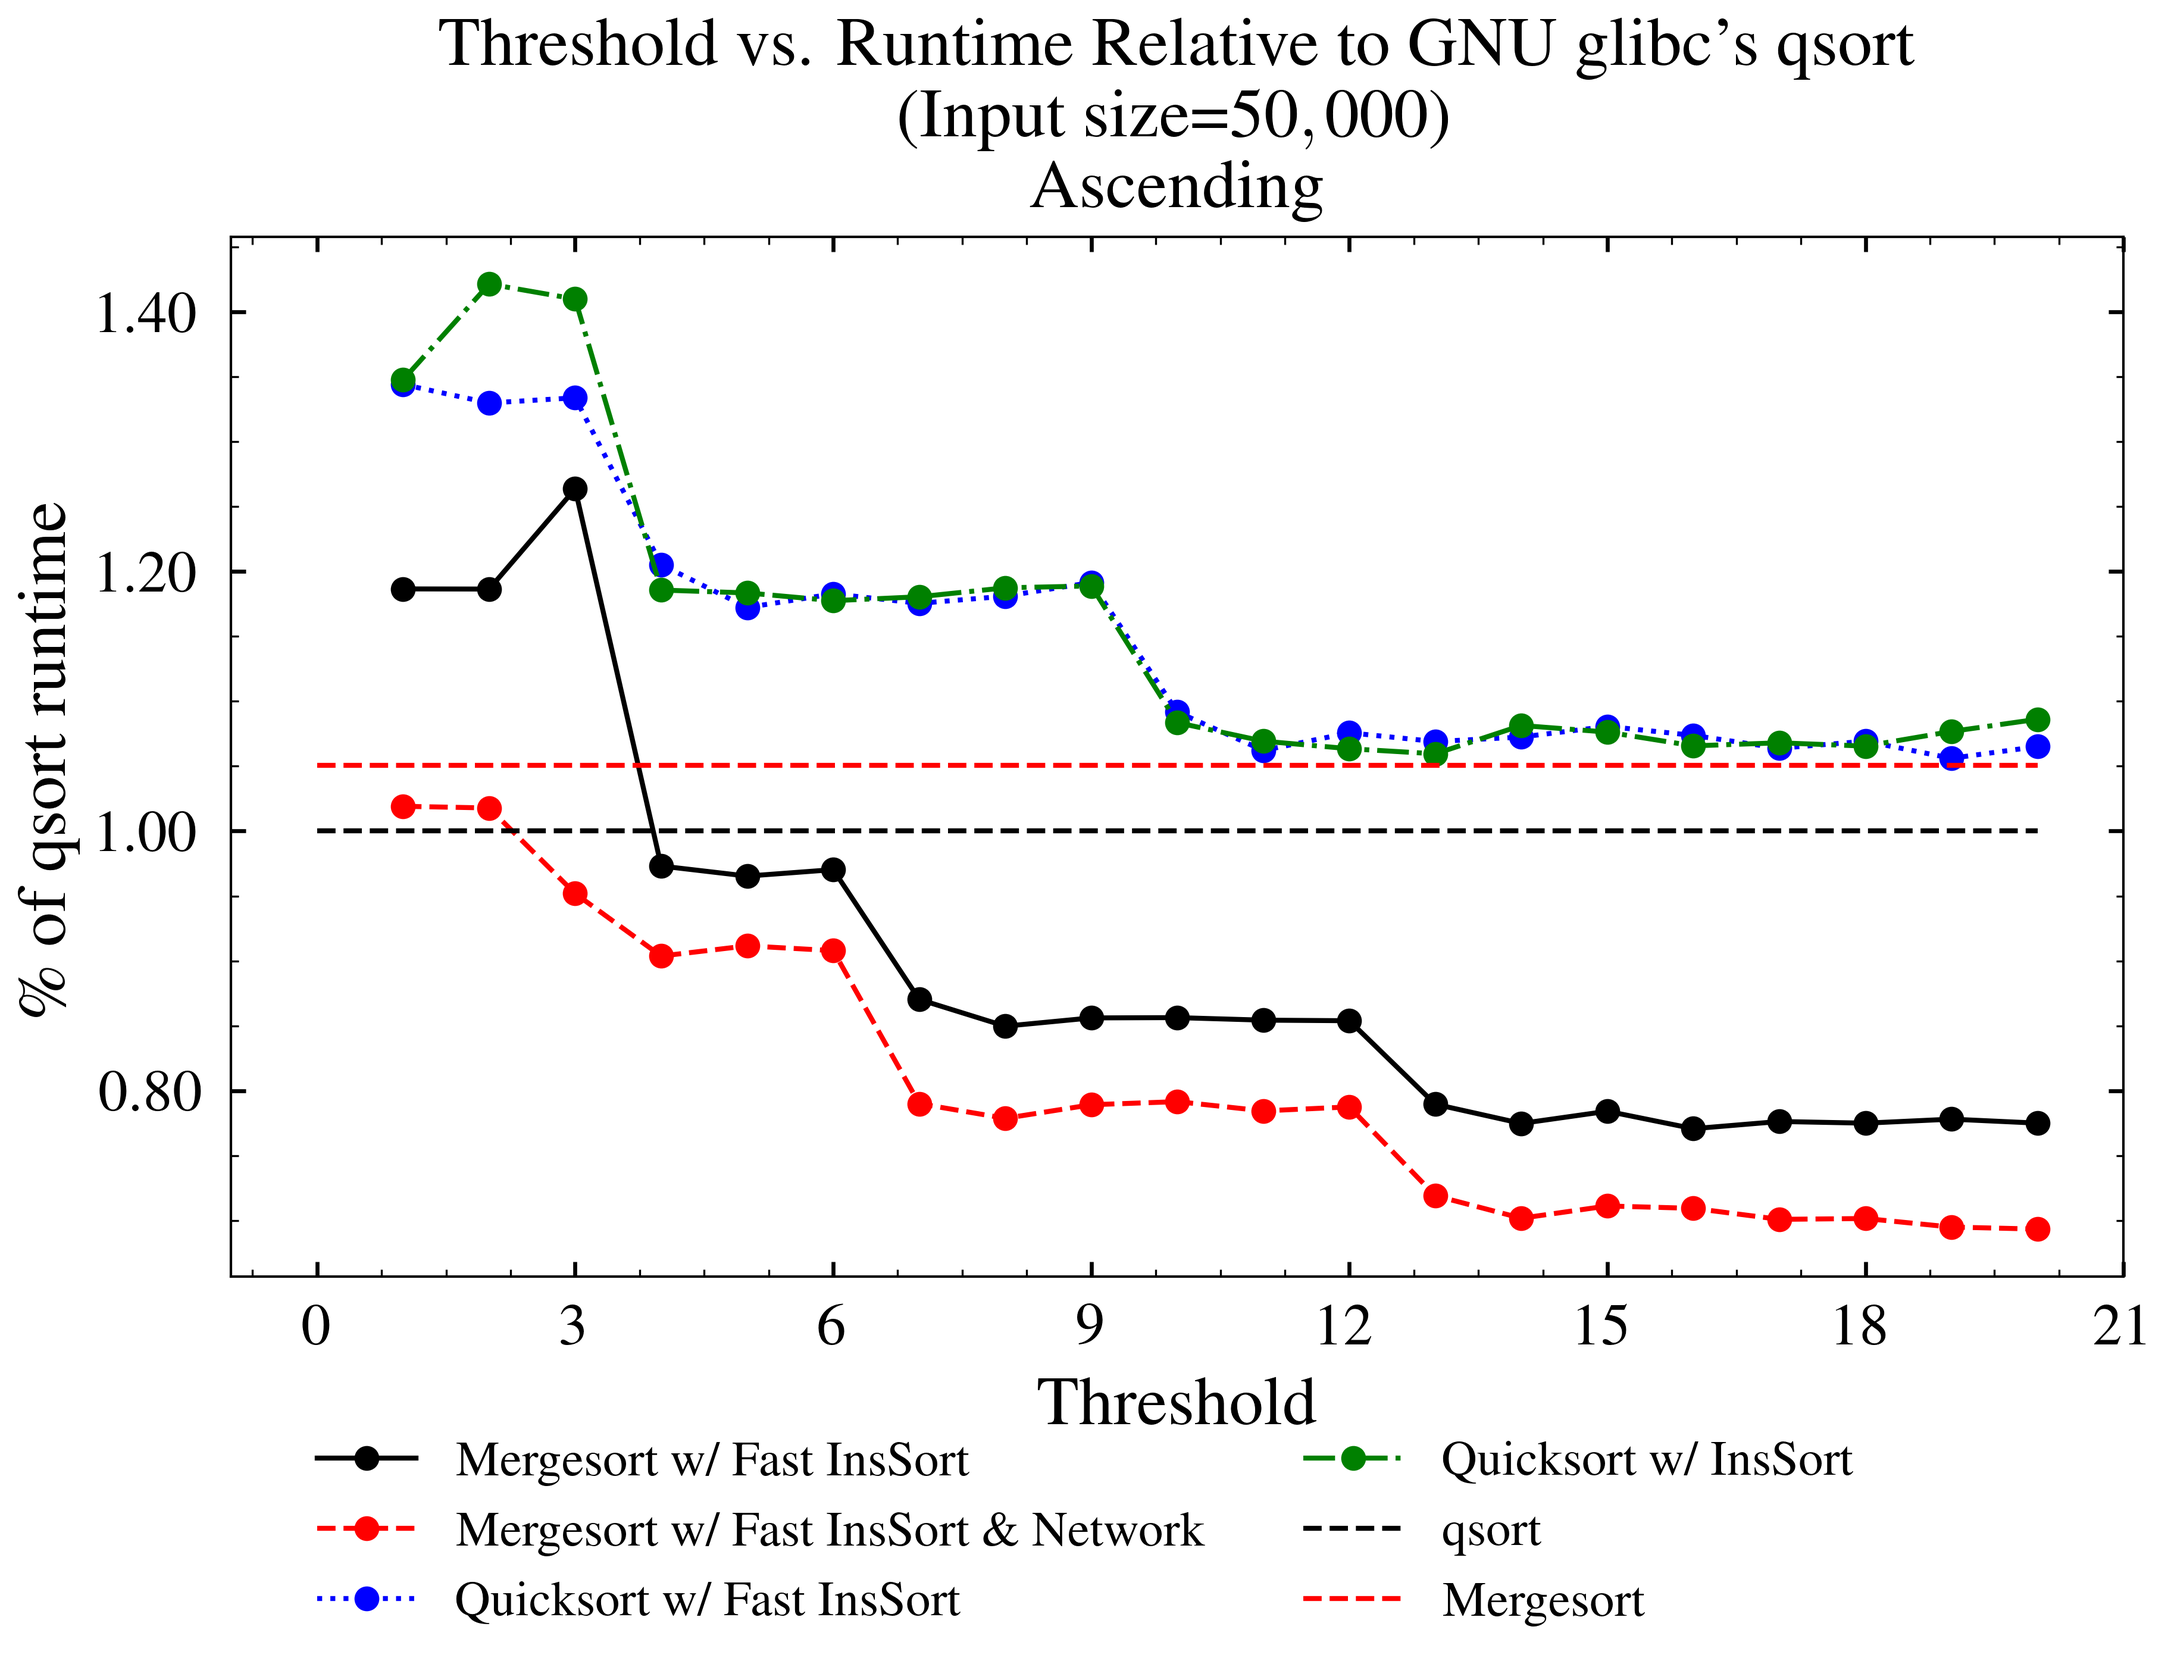
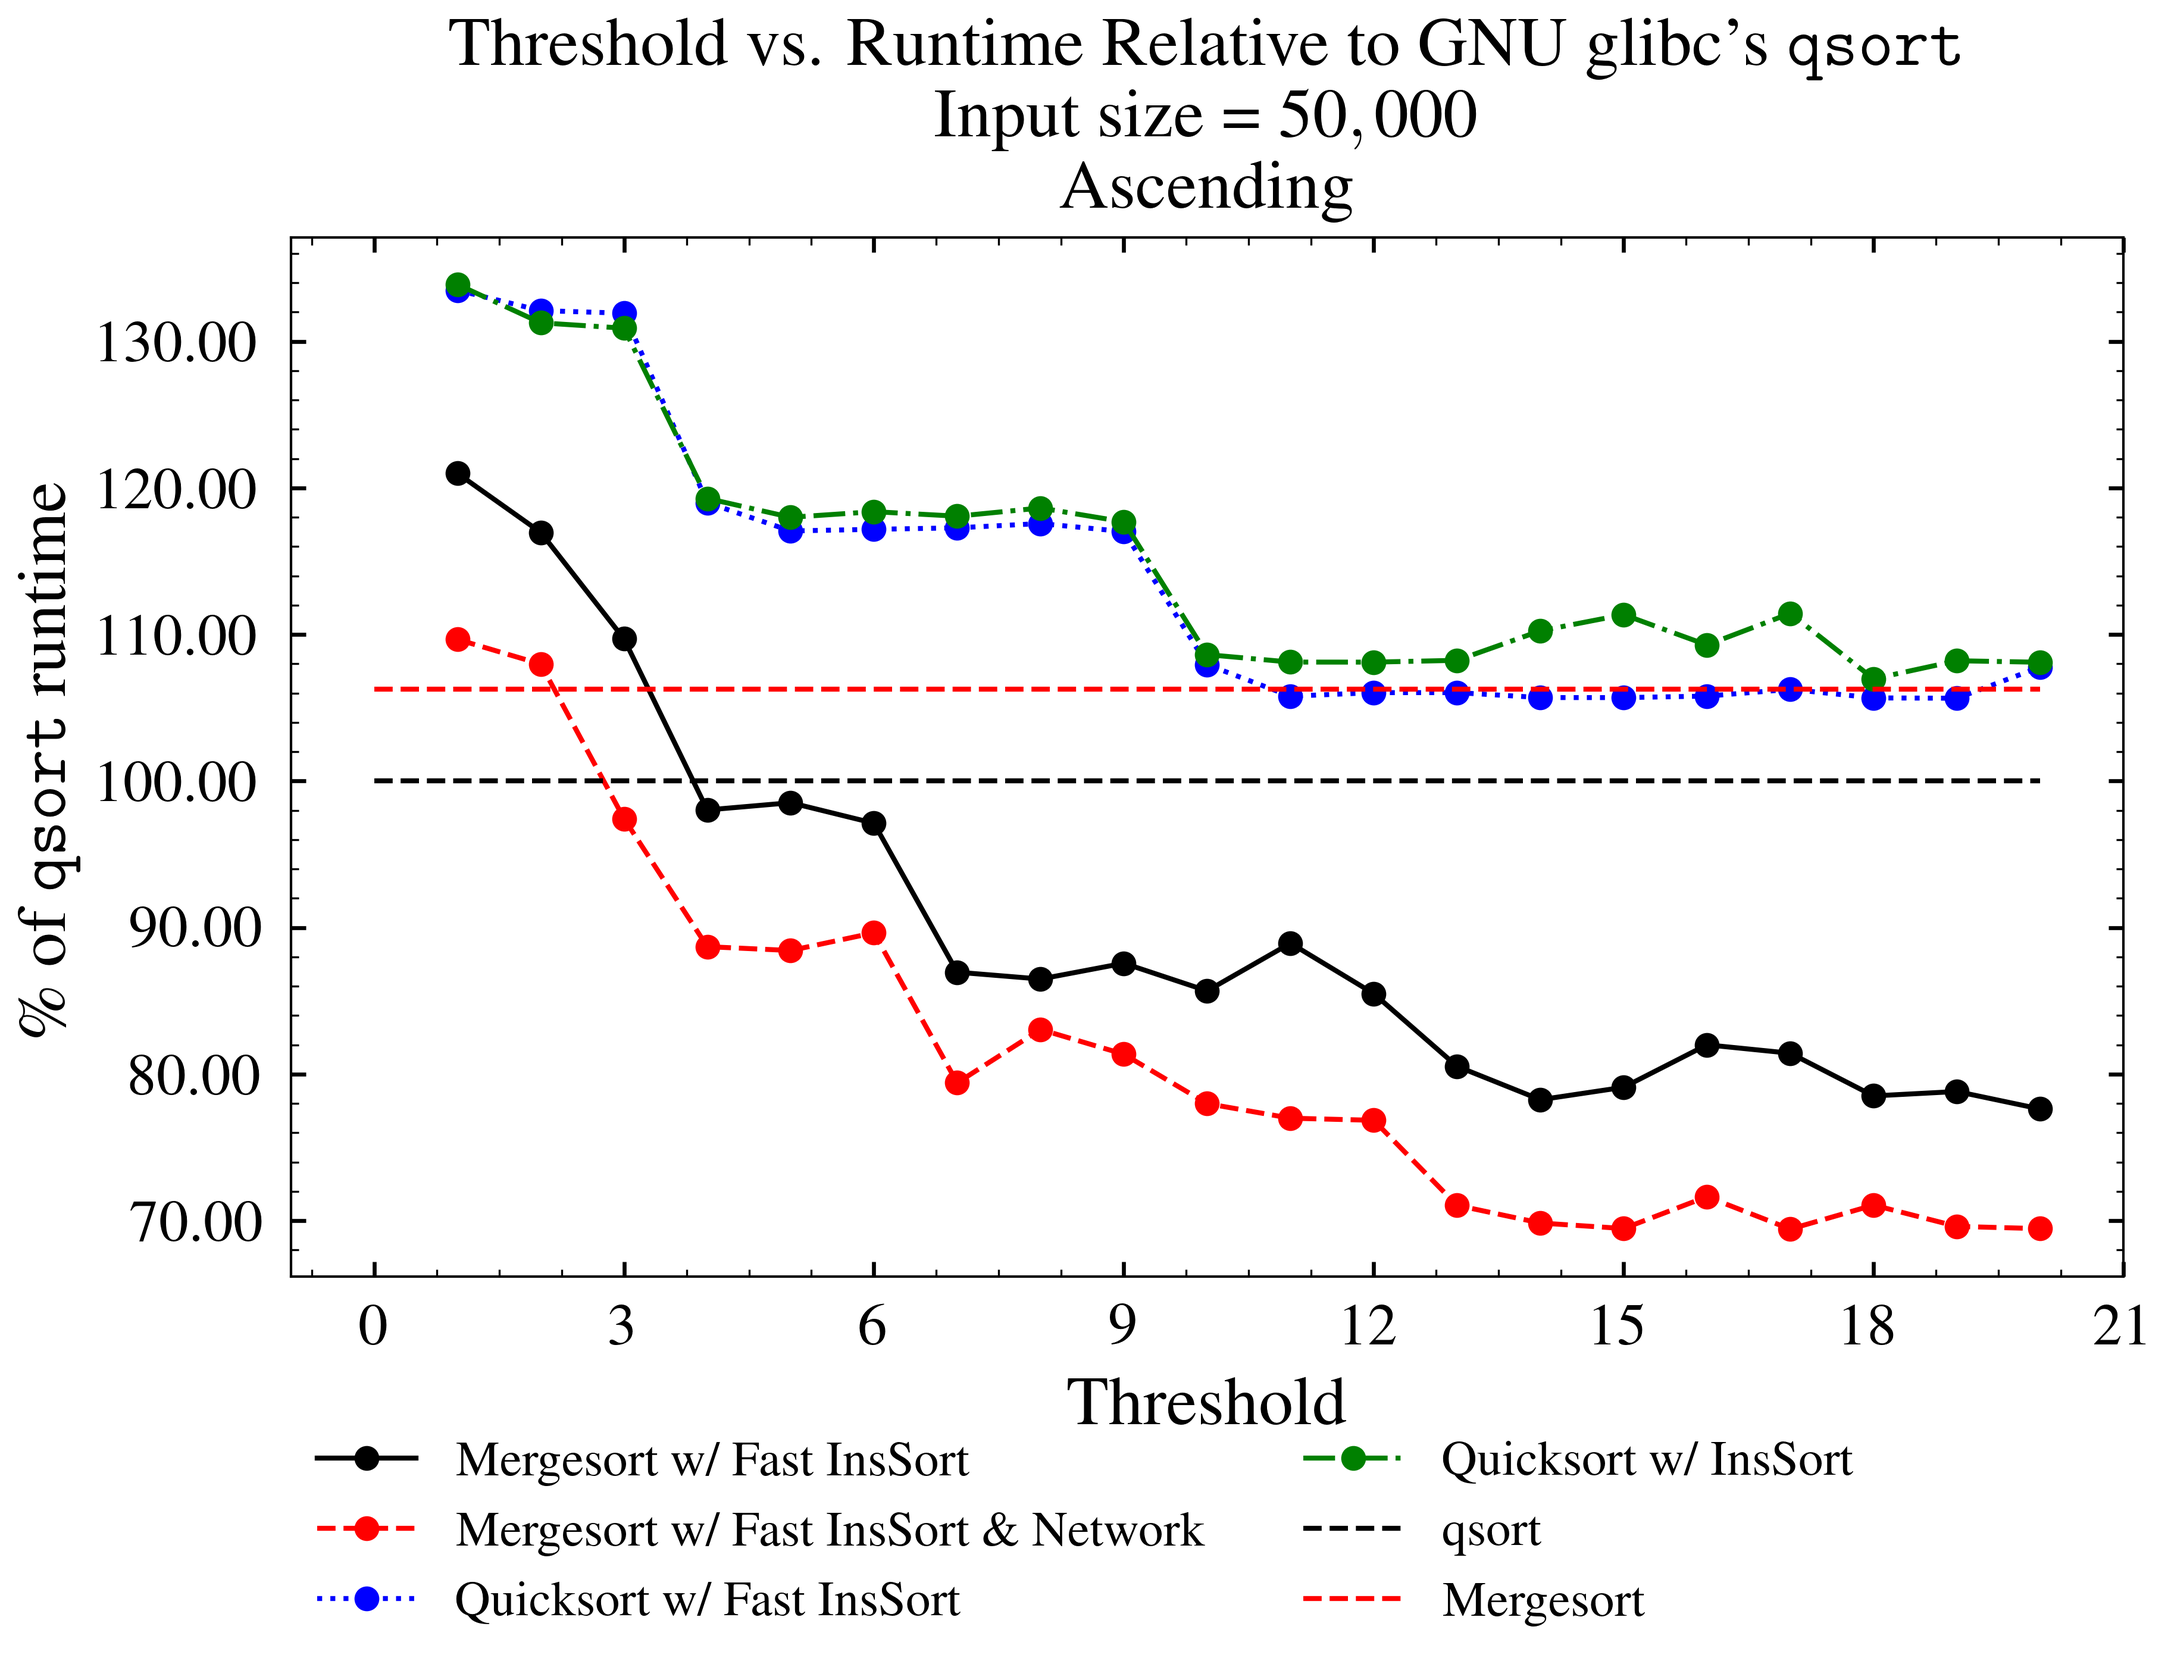
Finish up first draft of poster

diff --git a/docs/poster/poster.tex b/docs/poster/poster.tex
@@ -39,7 +39,6 @@
 \newcommand{\separatorcolumn}{\begin{column}{\sepwidth}\end{column}}
 \renewcommand*{\bibfont}{\footnotesize}
 
-\nocite{ARCC}
 
 % ====================
 % Title
@@ -205,14 +204,14 @@
 			\vspace{10mm}
 
 			\begin{block}{}
-				To ensure the proposed algorithms is performant in a wide variety
+				To ensure the proposed algorithm is performant in a wide variety
 				of hardware configurations, tests are repeated on various
 				different platforms with differing CPU and memory setups. The best
 				configurations are compared with each other to determine how well
 				each algorithm generalizes across many platforms. Some platforms
 				see little improvement with the additional hybridization of
-				networking sorting. This indicates an area in need of further
-				investigation.
+				networking sorting, while others see significant performance
+				gain. This indicates an area in need of further investigation.
 				\begin{figure}[h]
 					\centering
 					\makebox[\colwidth]{\includegraphics[width=\colwidth]{boxplots/4.gen}}
@@ -227,6 +226,7 @@
 				\end{figure}
 			\end{block}
 
+			\nocite{ARCC}
 			\begin{block}{References}
 				\footnotesize{\printbibliography}
 			\end{block}

diff --git a/evaluator/mpl.py b/evaluator/mpl.py
@@ -30,7 +30,6 @@ mpl.rcParams["xtick.labelsize"] = 12
 mpl.rcParams["ytick.labelsize"] = 12
 mpl.rcParams["legend.fontsize"] = 10
 
-plt.rcParams.update({"figure.dpi": "100"})
 mpl.rcParams["errorbar.capsize"] = 3
 mpl.rcParams["lines.linewidth"] = 1
 mpl.rcParams["lines.markersize"] = 5
@@ -300,8 +299,8 @@ class Result:
                 relative = num / den
                 df["wall_nsecs_relative"] = relative.values * 100
 
-                title = f"""Threshold vs. Runtime Relative to GNU glibc's {baseline_method}
-                (Input size=${size:,}$)
+                title = f"""Threshold vs. Runtime Relative to GNU glibc's \\texttt{{{baseline_method}}}
+                Input size = ${size:,}$
                 {type_.title()}"""
                 df.plot.line(
                     x="threshold",
@@ -332,7 +331,7 @@ class Result:
 
             ax.set_xlabel("Threshold")
             # Escape % since it is the comment char of latex
-            ax.set_ylabel(f"\% of {baseline_method} runtime")
+            ax.set_ylabel(f"\% of \\texttt{{{baseline_method}}} runtime")
             ax.xaxis.set_major_locator(ticker.MaxNLocator(integer=True))
 
             fig.tight_layout()

diff --git a/evaluator/boxplots.py b/evaluator/boxplots.py
@@ -131,7 +131,7 @@ def generate_boxplots(paths: list[Path], output_dir: Path):
         type_df = most_improved[most_improved["description"] == i]
         type_ = i.title()
 
-        title = f"""Runtime Relative to GNU glibc's qsort() Across Various Platforms
+        title = f"""Runtime Relative to GNU glibc's \\texttt{{qsort}} Across Various Platforms
         Input size = {size:,}
         {type_}"""
 
@@ -146,7 +146,7 @@ def generate_boxplots(paths: list[Path], output_dir: Path):
         ax.get_figure().suptitle("")
 
         # Seet rest of deatils
-        ax.set_ylabel("\% of qsort runtime")
+        ax.set_ylabel("\% of \\texttt{qsort} runtime")
         ax.set_title(title)
         ax.get_figure().tight_layout()
 
